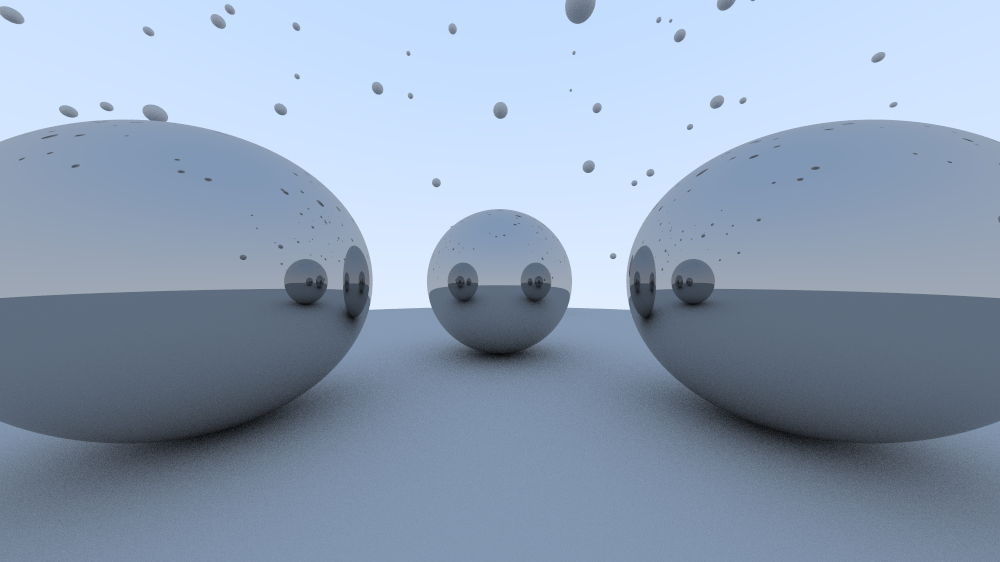
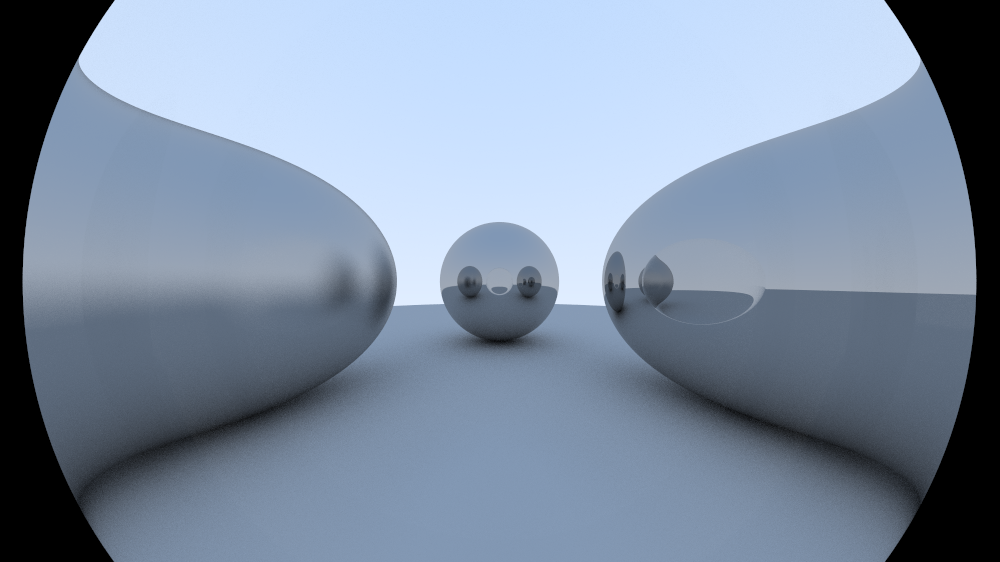
added dielectric material

diff --git a/src/main.rs b/src/main.rs
@@ -3,37 +3,84 @@ use image::{ImageBuffer, Rgb};
 use rand::distributions::{Distribution, Uniform};
 use rand::rngs::ThreadRng;
 use rand::Rng;
+use std::rc::Rc;
 
 const ASPECT_RATIO: f32 = 16.0 / 9.0;
-const WIDTH: u32 = 400;
+const WIDTH: u32 = 1000;
 const HEIGHT: u32 = (WIDTH as f32 / ASPECT_RATIO) as u32;
 
-const SAMPLES_PER_PIXEL: u32 = 40;
-const MAX_DEPTH: i32 = 10;
+const SAMPLES_PER_PIXEL: u32 = 200;
+const MAX_DEPTH: i32 = 100;
 
 fn main() {
     println!("Begin render {}x{}", WIDTH, HEIGHT);
 
     // Image
     let mut image_buffer = ImageBuffer::new(WIDTH, HEIGHT);
+    // Camera
+    let camera: Camera = Camera::new(2.4, ASPECT_RATIO);
+    let mut rng = rand::thread_rng();
 
     // World
-    let hittable_list: HittableList = HittableList {
+    let mut hittable_list: HittableList = HittableList {
         objects: Vec::from([
-            Box::new(Sphere {
-                center: Vec3::new(0.0, 0.0, -1.0),
-                radius: 0.5,
-            }) as Box<_>,
-            Box::new(Sphere {
-                center: Vec3::new(0.0, -100.5, -1.0),
-                radius: 100.0,
-            }) as Box<_>,
+            Box::new(Sphere::new(
+                Vec3::new(-1.0, 0.0, -1.0),
+                0.5,
+                Rc::new(Metal {
+                    albedo: Vec3::new(0.5, 0.5, 0.5),
+                    fuzz: 0.3,
+                }) as Rc<_>,
+            )) as Box<_>,
+            Box::new(Sphere::new(
+                Vec3::new(0.0, 0.0, -2.0),
+                0.5,
+                Rc::new(Metal {
+                    albedo: Vec3::new(0.5, 0.5, 0.5),
+                    fuzz: 0.01,
+                }) as Rc<_>,
+            )) as Box<_>,
+            Box::new(Sphere::new(
+                Vec3::new(0.0, 0.0, -0.5),
+                0.5,
+                Rc::new(Dielectric {
+                    index_of_refraction: 1.1,
+                }) as Rc<_>,
+            )) as Box<_>,
+            Box::new(Sphere::new(
+                Vec3::new(1.0, 0.0, -1.0),
+                0.5,
+                Rc::new(Metal {
+                    albedo: Vec3::new(0.5, 0.5, 0.5),
+                    fuzz: 0.0,
+                }) as Rc<_>,
+            )) as Box<_>,
+            Box::new(Sphere::new(
+                Vec3::new(0.0, -100.5, -1.0),
+                100.0,
+                Rc::new(Lambertian {
+                    albedo: Vec3::new(0.5, 0.5, 0.5),
+                }) as Rc<_>,
+            )) as Box<_>,
         ]),
     };
 
-    // Camera
-    let camera: Camera = Camera::new();
-    let mut rng = rand::thread_rng();
+    // for n in 0..100 {
+    //     hittable_list.objects.insert(
+    //         0,
+    //         Box::new(Sphere {
+    //             center: Vec3::new(
+    //                 rng.gen_range(0.0..60.0) - 30.0,
+    //                 rng.gen_range(0.0..20.0),
+    //                 -rng.gen_range(0.0..30.0) + 5.0,
+    //             ),
+    //             radius: rng.gen_range(0.1..0.4),
+    //             material: Rc::new(Metal {
+    //                 albedo: Vec3::new(0.5, 0.5, 0.5),
+    //             }),
+    //         }) as Box<_>,
+    //     );
+    // }
 
     let pixel_multiplier = Vec3::new(255.0, 255.0, 255.0);
     let samples = Vec3::new(
@@ -81,9 +128,9 @@ pub struct Camera {
 }
 
 impl Camera {
-    pub fn new() -> Self {
-        let viewport_height = 2.0;
-        let viewport_width = ASPECT_RATIO * viewport_height;
+    pub fn new(vertical_fov: f32, aspect_ratio: f32) -> Self {
+        let viewport_height = (vertical_fov / 2.0).tan();
+        let viewport_width = aspect_ratio * viewport_height;
         let focal_length = 1.0;
 
         let origin = Vec3::new(0.0, 0.0, 0.0);
@@ -117,15 +164,26 @@ pub struct HitRecord {
     p: Vec3,
     normal: Vec3,
     t: f32,
+    front_face: bool,
+    material: Rc<dyn Material + 'static>,
 }
 
 impl HitRecord {
-    pub fn new(r: &Ray, normal: Vec3, t: f32, p: Vec3) -> Self {
+    pub fn new(
+        r: &Ray,
+        normal: Vec3,
+        t: f32,
+        p: Vec3,
+
+        material: Rc<dyn Material + 'static>,
+    ) -> Self {
         let front_face = Vec3::dot(r.dir, normal) < 0.0;
         HitRecord {
             t: t,
             p: p,
             normal: if front_face { normal } else { -normal },
+            front_face: front_face,
+            material: material,
         }
     }
 }
@@ -134,9 +192,20 @@ pub trait Hittable {
     fn hit(&self, r: &Ray, t_min: f32, t_max: f32) -> Option<HitRecord>;
 }
 
+impl Sphere {
+    pub fn new(center: Vec3, radius: f32, material: Rc<dyn Material + 'static>) -> Self {
+        Sphere {
+            center: center,
+            radius: radius,
+            material: material,
+        }
+    }
+}
+
 pub struct Sphere {
-    pub center: Vec3,
-    pub radius: f32,
+    center: Vec3,
+    radius: f32,
+    material: Rc<dyn Material + 'static>,
 }
 
 impl Hittable for Sphere {
@@ -162,7 +231,13 @@ impl Hittable for Sphere {
         }
 
         let p = r.at(root);
-        return Some(HitRecord::new(r, (p - self.center) / self.radius, root, p));
+        return Some(HitRecord::new(
+            r,
+            (p - self.center) / self.radius,
+            root,
+            p,
+            self.material.clone(),
+        ));
     }
 }
 
@@ -190,6 +265,10 @@ impl Hittable for HittableList {
 }
 
 impl Ray {
+    pub fn new(pos: Vec3, dir: Vec3) -> Self {
+        return Ray { pos: pos, dir: dir };
+    }
+
     pub fn at(&self, t: f32) -> Vec3 {
         return self.pos + t * self.dir;
     }
@@ -203,13 +282,14 @@ impl Ray {
         if hit.is_some() {
             // Draw collision surface normal
             let rec = hit.unwrap();
-            let target = rec.p + Ray::random_in_unit_sphere(rng, rec.normal);
-            return 0.5
-                * Ray {
-                    pos: rec.p,
-                    dir: target - rec.p,
-                }
-                .color(hittable, rng, depth - 1);
+            let cc = rec.material.scatter(self, &rec, rng);
+
+            if (cc.is_some()) {
+                let ccc = cc.unwrap();
+                return ccc.1 * ccc.0.color(hittable, rng, depth - 1);
+            }
+
+            return Vec3::new(0.0, 0.0, 0.0);
         }
 
         // Background gradient
@@ -233,21 +313,138 @@ impl Ray {
         }
     }
 
-    pub fn random_in_unit_sphere(rng: &mut ThreadRng, normal: Vec3) -> Vec3 {
+    pub fn random_in_unit_sphere(rng: &mut ThreadRng) -> Vec3 {
         let die = Uniform::from(-1.0..1.0);
 
         while true {
             let p = Vec3::new(die.sample(rng), die.sample(rng), die.sample(rng));
 
             if p.length_squared() < 1.0 {
-                if (Vec3::dot(p, normal) > 0.0) {
-                    return p;
-                }
-
-                return -p;
+                return p;
             }
         }
 
         return Vec3::new(0.0, 0.0, 0.0);
+    }
+
+    pub fn random_in_hemisphere(p: Vec3, normal: Vec3) -> Vec3 {
+        if (Vec3::dot(p, normal) > 0.0) {
+            return p;
+        }
+
+        return -p;
+    }
+}
+
+pub trait Material {
+    fn scatter(
+        &self,
+        r_in: &Ray,
+        hitRecord: &HitRecord,
+        rng: &mut ThreadRng,
+    ) -> Option<(Ray, Vec3)>;
+}
+
+pub struct Lambertian {
+    pub albedo: Vec3,
+}
+
+impl Material for Lambertian {
+    fn scatter(&self, r_in: &Ray, rec: &HitRecord, rng: &mut ThreadRng) -> Option<(Ray, Vec3)> {
+        let scatter_direction = rec.normal + Ray::random_in_unit_sphere(rng);
+
+        let abs = scatter_direction.abs();
+        if (abs.x < 1e-8 && abs.y < 1e-8 && abs.z < 1e-8) {
+            return Some((
+                Ray {
+                    pos: rec.p,
+                    dir: rec.normal,
+                },
+                self.albedo,
+            ));
+        }
+
+        return Some((
+            Ray {
+                pos: rec.p,
+                dir: scatter_direction,
+            },
+            self.albedo,
+        ));
+    }
+}
+
+pub struct Metal {
+    pub albedo: Vec3,
+    pub fuzz: f32,
+}
+
+impl Material for Metal {
+    fn scatter(&self, r_in: &Ray, rec: &HitRecord, rng: &mut ThreadRng) -> Option<(Ray, Vec3)> {
+        let v = r_in.dir.normalize();
+        let n = rec.normal;
+        let reflected = v - 2.0 * Vec3::dot(v, n) * n;
+
+        if (Vec3::dot(reflected, rec.normal) > 0.0) {
+            return Some((
+                Ray::new(
+                    rec.p,
+                    reflected + self.fuzz * Ray::random_in_unit_sphere(rng),
+                ),
+                self.albedo,
+            ));
+        }
+
+        return None;
+    }
+}
+
+pub struct Dielectric {
+    pub index_of_refraction: f32,
+}
+
+impl Material for Dielectric {
+    fn scatter(&self, r_in: &Ray, rec: &HitRecord, rng: &mut ThreadRng) -> Option<(Ray, Vec3)> {
+        let refraction_ratio = if rec.front_face {
+            (1.0 / self.index_of_refraction)
+        } else {
+            self.index_of_refraction
+        };
+
+        let unit_direction = r_in.dir.normalize();
+
+        let cos_theta = Vec3::dot(-unit_direction, rec.normal).min(1.0);
+        let sin_theta = (1.0 - cos_theta * cos_theta).sqrt();
+
+        let cannot_refract = refraction_ratio * sin_theta > 1.0;
+        let direction = if (cannot_refract
+            || Dielectric::reflectance(cos_theta, refraction_ratio) > rng.gen_range(0.0..1.0))
+        {
+            Dielectric::reflect(unit_direction, rec.normal)
+        } else {
+            Dielectric::refract(unit_direction, rec.normal, refraction_ratio)
+        };
+
+        return Some((Ray::new(rec.p, direction), Vec3::new(1.0, 1.0, 1.0)));
+    }
+}
+
+impl Dielectric {
+    pub fn refract(uv: Vec3, n: Vec3, etai_over_etat: f32) -> Vec3 {
+        let cos_theta = Vec3::dot(-uv, n).min(1.0);
+        let r_out_perp = etai_over_etat * (uv + cos_theta * n);
+        let r_out_parallel = (1.0 - r_out_perp.length_squared()).abs().sqrt() * -n;
+        return r_out_perp + r_out_parallel;
+    }
+
+    pub fn reflect(v: Vec3, n: Vec3) -> Vec3 {
+        return v - 2.0 * Vec3::dot(v, n) * n;
+    }
+
+    pub fn reflectance(cosine: f32, refraction_ratio: f32) -> f32 {
+        // Use Schlick's approximation for reflectance.
+        let mut r0 = (1.0 - refraction_ratio) / (1.0 + refraction_ratio);
+        r0 = r0 * r0;
+        return r0 + (1.0 - r0) * (1.0 - cosine).powf(5.0);
     }
 }
